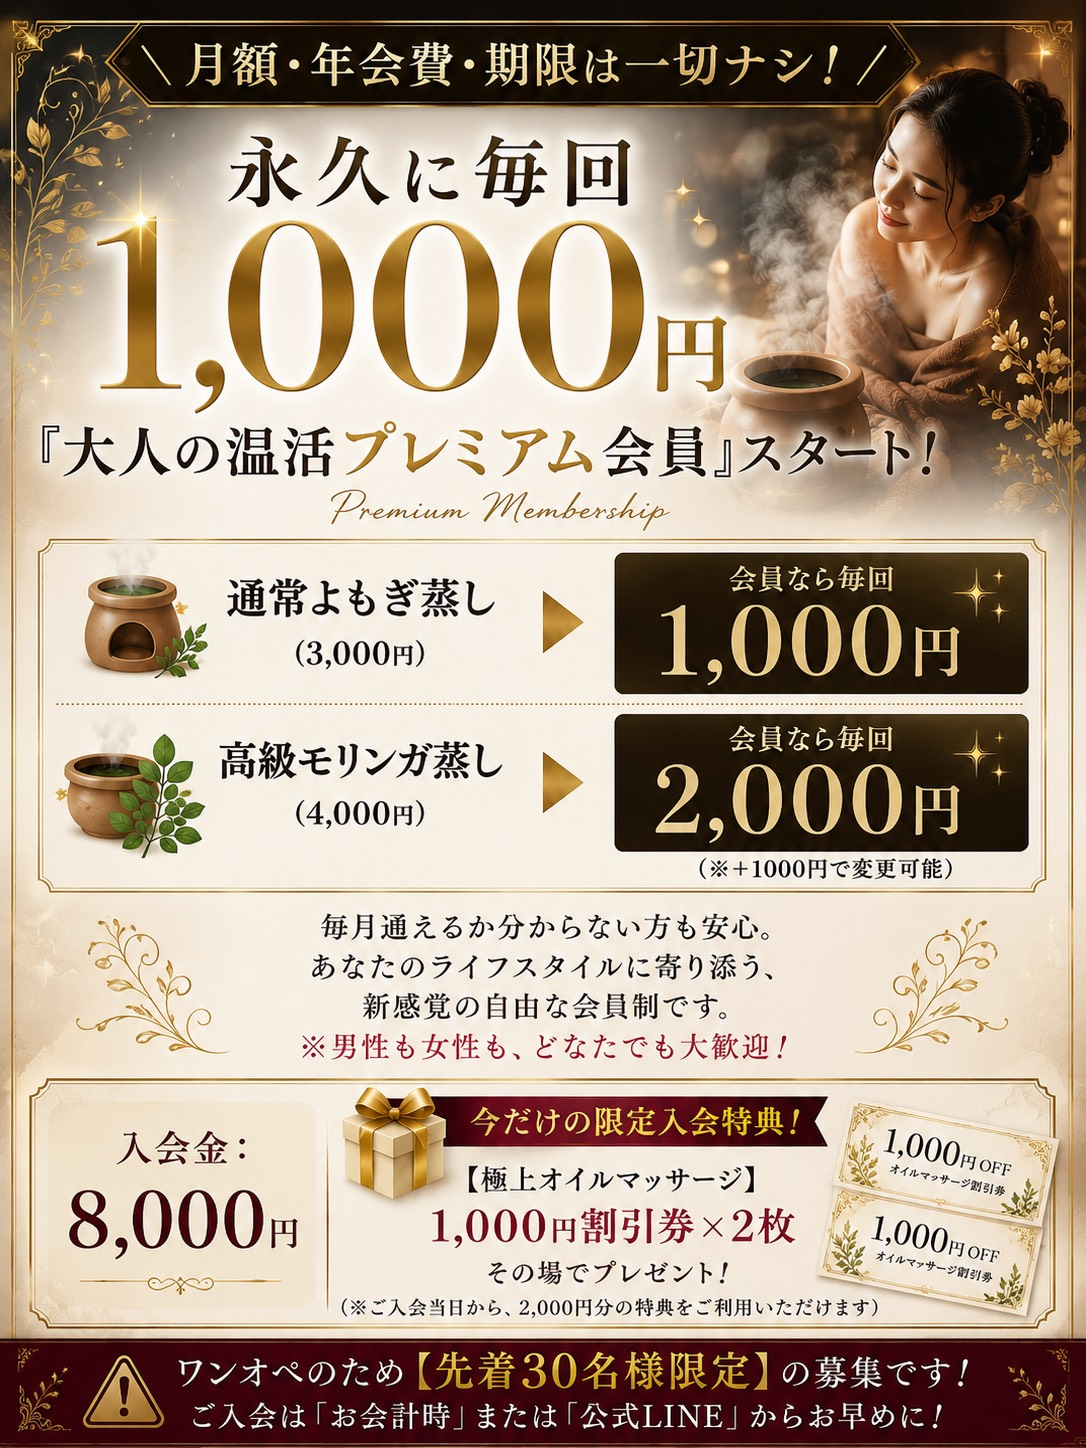
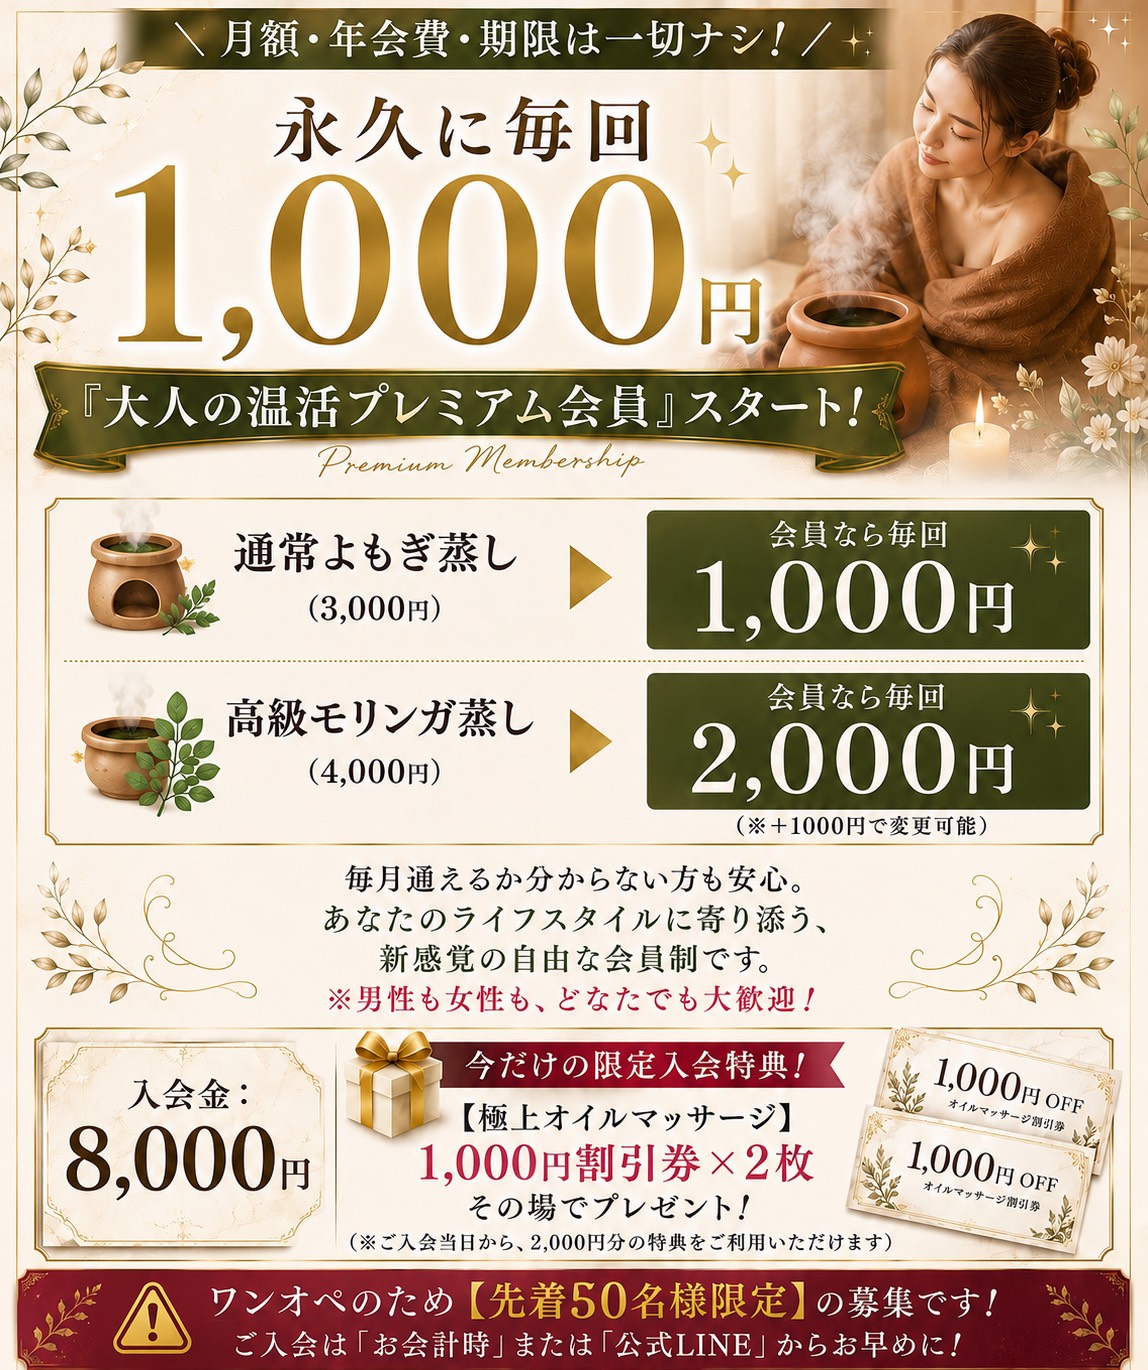
Add files via upload

diff --git a/price.html b/price.html
@@ -16,8 +16,8 @@
     <meta property="og:image" content="https://manaoase.com/ogp.png">
     <meta property="og:locale" content="ja_JP">
     <meta property="og:site_name" content="Mana Oase">
-    <link rel="icon" href="favicon.png" type="image/png">
-    <link rel="apple-touch-icon" href="favicon.png">
+    <link rel="icon" href="images/favicon.png" type="image/png">
+    <link rel="apple-touch-icon" href="images/favicon.png">
     <link rel="stylesheet" href="style.css">
     <link href="https://fonts.googleapis.com/css2?family=Noto+Serif+JP:wght@400;700&display=swap" rel="stylesheet">
     <style>
@@ -286,6 +286,16 @@
             </div>
         </div>
 
+        <!-- モリンガ蒸し -->
+        <div class="price-block">
+            <h2 class="price-block__title">モリンガ蒸し</h2>
+            <span class="price-block__title-en">Moringa Steam</span>
+            <div class="price-row">
+                <span class="price-label">一回30分</span>
+                <span class="price-value">¥4,000</span>
+            </div>
+        </div>
+
         <!-- その他 -->
         <div class="price-block">
             <h2 class="price-block__title">その他</h2>
@@ -301,7 +311,7 @@
             <h2 class="price-block__title">お支払い</h2>
             <span class="price-block__title-en">Payment</span>
             <div class="payment-img-wrap" style="background:#F7F3EC; border-radius:12px; padding:20px 24px; text-align:center;">
-                <img src="S__108371979.jpg" alt="お支払い方法" style="width:85%; max-width:320px; object-fit:contain; border-radius:8px; display:block; margin:0 auto;">
+                <img src="images/S__108371979.jpg" alt="お支払い方法" style="width:85%; max-width:320px; object-fit:contain; border-radius:8px; display:block; margin:0 auto;">
             </div>
         </div>
 

diff --git a/index.html b/index.html
@@ -16,8 +16,8 @@
     <meta property="og:image" content="https://manaoase.com/ogp.png">
     <meta property="og:locale" content="ja_JP">
     <meta property="og:site_name" content="Mana Oase">
-    <link rel="icon" href="favicon.png" type="image/png">
-    <link rel="apple-touch-icon" href="favicon.png">
+    <link rel="icon" href="images/favicon.png" type="image/png">
+    <link rel="apple-touch-icon" href="images/favicon.png">
     <link rel="stylesheet" href="style.css">
     <link href="https://fonts.googleapis.com/css2?family=Noto+Serif+JP:wght@400;700&display=swap" rel="stylesheet">
 </head>
@@ -63,7 +63,7 @@
 
         <div class="menu-item fade-in">
             <div class="menu-item__image menu-item__image--oil">
-                <img src="oil-massage.jpg" alt="オイルトリートメント">
+                <img src="images/oil-massage.jpg" alt="オイルトリートメント">
             </div>
             <div class="menu-item__text">
                 <span class="menu-item__label">01</span>
@@ -74,7 +74,7 @@
 
         <div class="menu-item menu-item--reverse fade-in">
             <div class="menu-item__image menu-item__image--yomogi">
-                <img src="yomogi.jpg" alt="よもぎ蒸し">
+                <img src="images/yomogi.jpg" alt="よもぎ蒸し">
             </div>
             <div class="menu-item__text">
                 <span class="menu-item__label">02</span>
@@ -89,7 +89,7 @@
     <section id="news" class="container fade-in">
         <h2 class="section-title" style="color:#B8960C;">News</h2>
         <div style="background:white; border:1px solid #e8d9b5; border-radius:16px; padding:24px; max-width:540px; margin:0 auto; box-shadow:0 8px 30px rgba(184,150,12,0.12); text-align:center;">
-            <img src="news.jpg" alt="大人の温活プレミアム会員" style="width:100%; border-radius:10px;">
+            <img src="images/news.jpg" alt="大人の温活プレミアム会員" style="width:100%; border-radius:10px;">
         </div>
     </section>
 

diff --git a/products.html b/products.html
@@ -16,8 +16,8 @@
     <meta property="og:image" content="https://manaoase.com/ogp.png">
     <meta property="og:locale" content="ja_JP">
     <meta property="og:site_name" content="Mana Oase">
-    <link rel="icon" href="favicon.png" type="image/png">
-    <link rel="apple-touch-icon" href="favicon.png">
+    <link rel="icon" href="images/favicon.png" type="image/png">
+    <link rel="apple-touch-icon" href="images/favicon.png">
     <link rel="stylesheet" href="style.css">
     <link href="https://fonts.googleapis.com/css2?family=Noto+Serif+JP:wght@400;700&display=swap" rel="stylesheet">
 </head>
@@ -55,13 +55,13 @@
         </div>
         <div class="products-grid">
             <div class="product-card">
-                <img src="tw-pc.jpg" alt="Pluscare" class="product-img">
+                <img src="images/tw-pc.jpg" alt="Pluscare" class="product-img">
             </div>
             <div class="product-card">
-                <img src="ogp.png" alt="Policy Esthetic College" class="product-img">
+                <img src="images/ogp.png" alt="Policy Esthetic College" class="product-img">
             </div>
             <div class="product-card">
-                <img src="top_epl.jpg" alt="Esthe Pro Labo" class="product-img">
+                <img src="images/top_epl.jpg" alt="Esthe Pro Labo" class="product-img">
             </div>
         </div>
     </div>

diff --git a/style.css b/style.css
@@ -172,7 +172,7 @@ body {
 .hero {
     height: 100vh;
     width: 100%;
-    background-image: linear-gradient(rgba(0,0,0,0.2), rgba(0,0,0,0.2)), url('main-bg.jpg');
+    background-image: linear-gradient(rgba(0,0,0,0.2), rgba(0,0,0,0.2)), url('images/main-bg.jpg');
     background-size: cover;
     background-position: center;
     display: flex;